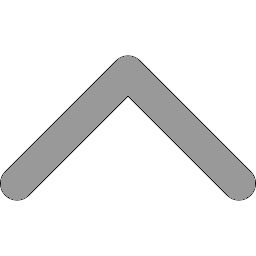
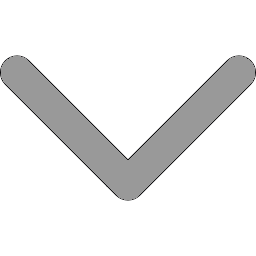
Arrow up/down functionality added. Slight css changes.

Changed region(s): [[0.0, 0.2188, 1.0, 0.7812]]

diff --git a/ext/app/scripts/handler.js b/ext/app/scripts/handler.js
@@ -19,6 +19,7 @@ for (var i = 0; i < hoverImgChangeId.length; i++) {
 
 document.getElementById("open-up-img").addEventListener("click", function() {
 	if (document.getElementById("song-info-container").style.borderTop != "") {
+		this.setAttribute("src", "./images/open-on.png");
 		document.getElementById("song-info-container").style.borderTop = "";
 		document.getElementById("option-container").style.display = "none";
 		document.getElementById("add-playlist-execute").style.display = "none";
@@ -27,6 +28,7 @@ document.getElementById("open-up-img").addEventListener("click", function() {
 		document.getElementById("playlists-container").style.display = "none";
 		document.getElementById("add-playlist").style.display = "none";
 	} else {
+		this.setAttribute("src", "./images/close-on.png");
 		document.getElementById("song-info-container").style.borderTop = "1px solid rgba(255, 255, 255, 0.3)";
 		document.getElementById("option-container").style.display = "inline";
 		document.getElementById("playlists-container").style.display = "inline";

diff --git a/ext/app/styles/styles.css b/ext/app/styles/styles.css
@@ -11,7 +11,6 @@ body {
 }
 
 #option-table {
-    font-size: 20px;
     color: rgba(255, 255, 255, 0.6);
     width: 225px;
     border-collapse: collapse;
@@ -29,7 +28,7 @@ body {
 }
 
 button {
-    font-size: 20px;
+    font-size: 14px;
     color: rgba(255, 255, 255, 0.6);
     background-color: transparent;
     background-repeat :no-repeat;
@@ -218,7 +217,7 @@ input[type=range]::-ms-fill-upper {
     color: rgba(255, 255, 255, 0.3);
     padding-left: 8px;
     padding-top: 3px;
-    font-size: 14px;
+    font-size: 12px;
     cursor: pointer;
 }
 
@@ -226,10 +225,14 @@ input[type=range]::-ms-fill-upper {
     color: rgba(255, 255, 255, 0.6);
 }
 
+#add-playlist {
+    padding-bottom: 3px;
+}
+
 #add-playlist, #playlist-title {
     color: rgba(255, 255, 255, 0.3);
     text-align: center;
-    font-size: 16px;
+    font-size: 13px;
     cursor: pointer;
     border-bottom: 1px solid rgba(255, 255, 255, 0.03);
 }
